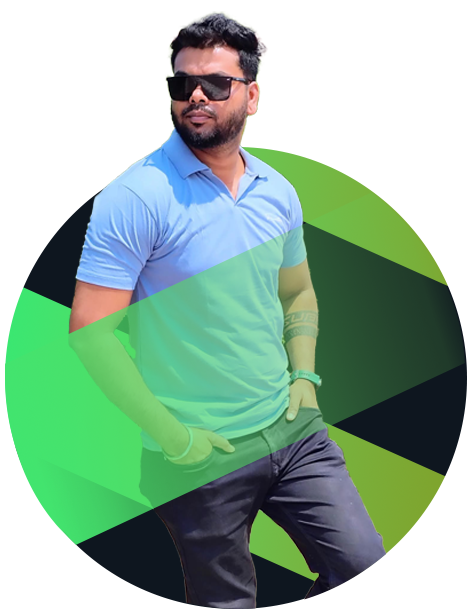
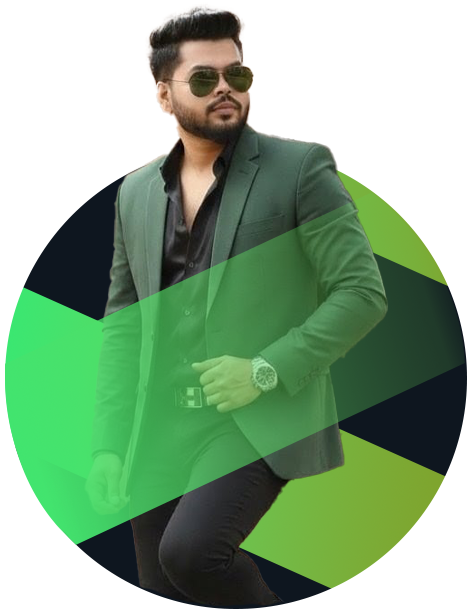
Added Projects

diff --git a/src/components/Banner.jsx b/src/components/Banner.jsx
@@ -49,7 +49,7 @@ const Banner = () => {
         A Front-end <span>Developer &</span>
       </h1>
 
-      <div className="row">
+      <div className="row align-items-center">
         <div className="col-lg-6">
           <div className="banner-left" data-aos="zoom-in">
             <img src={headerImg} alt="Header" className="banner-pic" />
